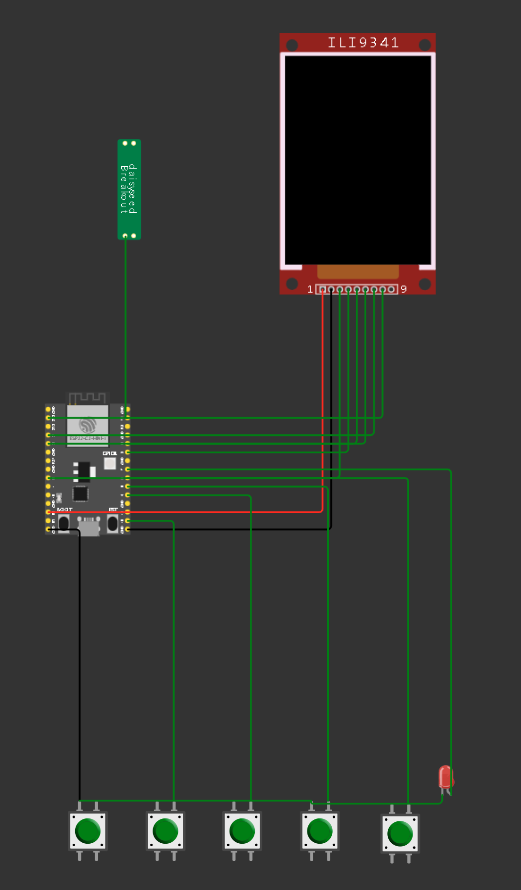
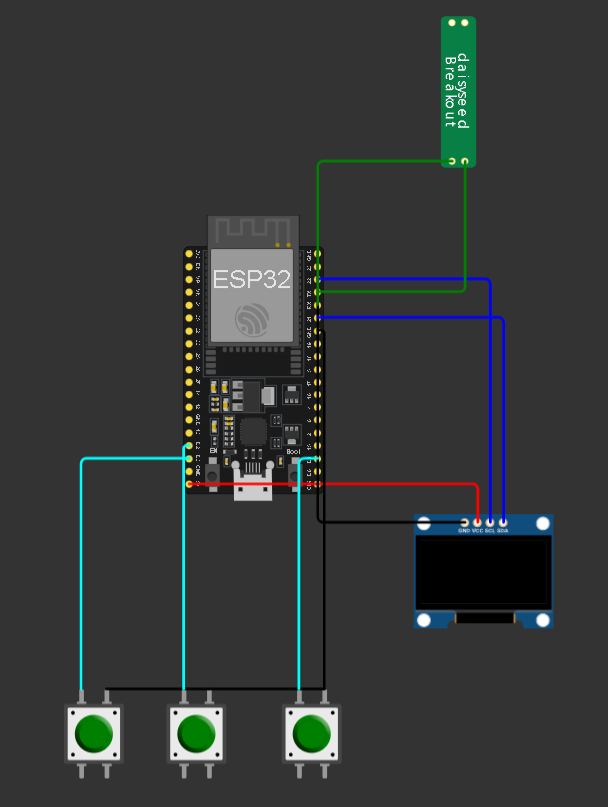
Updated documentation for oscilloscope replaced old png

Changed region(s): [[0.0614, 0.0, 0.9213, 0.9603]]

diff --git a/documentation/Oscilloscope-ESP32.md b/documentation/Oscilloscope-ESP32.md
@@ -15,8 +15,8 @@
 # Prérequis
 - ESP **-WROOM-32**
 - Arduino IDE
-- Écran OLED (***ST7735S***)
-- Bouton X 5
+- Écran OLED (***SSD1309***)
+- 3 boutons
 
 <a id="item-2"></a>
 
@@ -42,19 +42,13 @@ L'ESP32 va prendre en charge plusieurs fonctionnalitées du synthétiseur
 
 - 5V -> VCC
 - GND -> GND
-- 3V3 -> LED(LCD)
-- 3 -> MOSI
-- 2 -> SCK
-- TX -> RX (Daisy seed)
-- 10 -> DC
-- 8 -> RST
-- 7 -> LED
-- 6 -> Bouton 1
-- 5 -> Bouton 2
-- 4 -> Bouton 3
-- 18 -> Bouton 4
-- 19 -> Bouton 5
-- 0 -> sound input
+- D1 -> Bouton 1
+- D2 -> Bouton 2
+- D3 -> Bouton 3
+- D21 -> SDA
+- D22 -> SDK
+- A0 -> audio
+- TX -> Rx (daisy seed)
 
 <a id="item-5"></a>
 
@@ -64,19 +58,13 @@ Le programme va utiliser ces pins jusqu'au transfert vers le ESP32.
 
 - 5V -> VCC
 - GND -> GND
-- 3V3 -> LED(LCD)
-- 2 -> LED
-- 3 -> Bouton 1
-- 4 -> Bouton 2
-- 5 -> Bouton 3
-- 6 -> Bouton 4
-- 7 -> Bouton 5
-- 8 -> RST
-- 9 -> DC
-- 10 -> CS
-- 11 -> SDA
-- 13 -> SDK
+- 2 -> Bouton 1
+- 10 -> Bouton 2
+- 11 -> Bouton 3
+- SDA -> SDA
+- SDK -> SDK
 - A0 -> audio
+- TX -> Rx (daisy seed)
 
 <a id="item-6"></a>
 
@@ -88,23 +76,47 @@ Description du fonctionnement du code
 ## Librairies
 
 - WIRE.h *
-- SPI.h *
-- EEPROM.h *
 - Adafruit_GFX.h
-- Adafruit_ST7735.h
+- Adafruit_SSD1309.h
+- OneButton.h
 
-"*" = intégré dans le arduino IDE.
+\* = intégré dans le arduino IDE.
 
-Adafruit_GFX & Adafruit_ST7735 Peuvent être trouvés dans le library manager de arduino IDE.
+Adafruit_GFX, Adafruit_SSD1309 & OneButton Peuvent être trouvés dans le library manager de arduino IDE.
 
 <a id="item-8"></a>
 
 ## Base de départ du code
 
-Le code pour l'utilisation de l'écran LCD à été adapté à partir de ce [site internet](https://www.electronics-lab.com/project/using-st7735-1-8-color-tft-display-arduino/)
-
 Le code pour simuler un oscilloscope à été tiré d'un repository github "[Scope-O-Matic](https://github.com/josbouten/Scope-O-Matic/tree/master?tab=readme-ov-file)". Le code de ce repository sera majoritairement réutilisé avec des modifications pour s'adapter à Un autre model d'écran et à une utilisation plus adapté pour nous. Ce projet était à la base un module utilisé dans un [Eurorack](https://fr.wikipedia.org/wiki/Eurorack) donc il ne serait pas adapté à notre utilisation si on ne le modifirait pas.
+
+Le résultat final est un code beaucoup plus simple et épuré qui prend la moitié moins de place.
+
+La librairie pour le SSD1309 était grandement similaire à celle du 1306 donc peu de changements ont été nécessaires pour adapter le code pour qu'il fonctionne.
+
+La librairie OneButton sert à simplifier l'usage des bouton à travers plusieurs loop et la lenteur causé par les processus de l'ocilloscope.
 
 <a id="item-9"></a>
 
 ## Comment ça marche ?
+
+#### setConditions
+Cette fonction détermine les paramètres d'affichage en fonction de l'échelle qui peut être modifié par les différents boutons (x-scale, y-scale)
+
+#### readWave
+Cette fonction viens lire les données provenant de la Pin A0 et l'enregistre dans un array. Aussi elle change des variables en fonction du x-scale.
+
+#### dataAnalyze
+Cette fonction décide des valeurs maximum et minimum du display et d'autres paramètres d'affichage.
+
+#### startScreen
+Affiche une image de marque au lancement du programme.
+
+#### dispHold
+Quand l'utilisateur appuie sur le bouton "hold" le rafraichissement de l'écran stoppe et affiche le mot "hold" en haut de l'écran jusqu'à ce que le mode soit désactivé.
+
+#### plotData
+Cette fonction prend les points enregistré dans la fonction readWave et dessine des lignes entre ces points. L'affichage est changé par les fonctions dataAnalyze et setConditions.
+
+#### updateButtons
+Cette fonction viens updater les boutons pour détecter si quelqu'un à appuyer sur le bouton.
